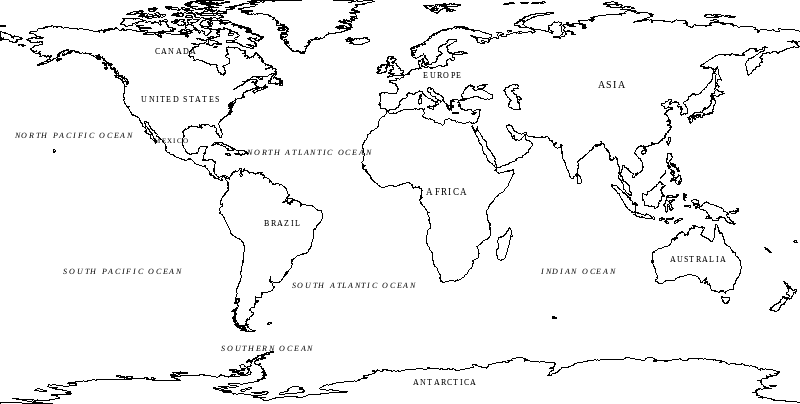
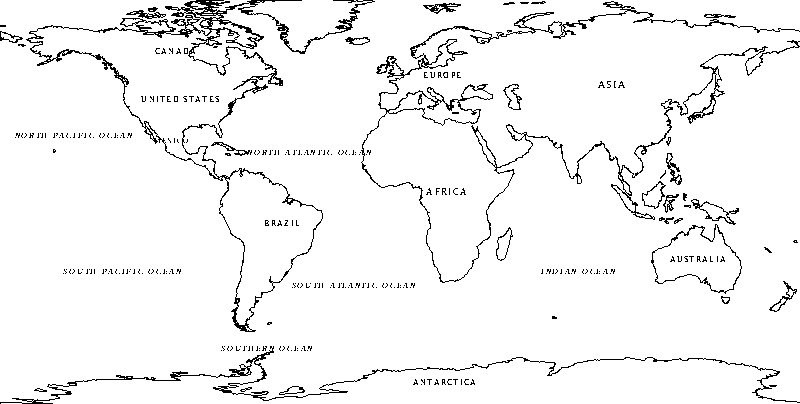
sharkmap: render all type with hard edges, and fix the panel preview
Two separate problems were making text look weak in preview, one real and one an
artefact of the preview itself.

The real one: Pillow anti-aliases TrueType text, leaving grey pixels along every
stroke. Grey is not a colour this panel has, so the Inky driver dithered each of
those into a scattered red, green or blue dot and small type came out speckled.
All type now goes through a mask that is thresholded before it is stamped, in the
plugin via the new CrispText helper and in the basemap generator for its place
labels, so every text pixel is pure black or pure white. The threshold sits at
100 rather than 128 because at 8px a serif stem only partly covers its pixels and
a strict midpoint thins those strokes until they break.

world_map.png is now exactly 2 distinct colours where it previously reported
"many", and a full render is 2 colours where it was 256. Nothing in the output
requires dithering at all, so the panel shows what is sent, pixel for pixel.

The preview artefact: the driver's saturation blend decides which ink each source
colour maps to, but it is not the appearance of that ink. preview_spectra6.py was
painting results with the blended values, which renders white as (208,209,210)
grey and made everything look far weaker than it will be. It now quantises against
the blended palette, as the driver does, and displays the result with the panel's
own colours. --appearance blended keeps the old behaviour for comparison.
[…]

diff --git a/src/plugins/sharkmap/sharkmap.py b/src/plugins/sharkmap/sharkmap.py
@@ -118,6 +118,40 @@ FIN_ALPHA_THRESHOLD = 128
 PLACE_MAX_CHARS = 42      # place_guess is free text and can run long
 
 
+class CrispText:
+    """Collects text into a 1-bit mask so it can be pasted with hard edges.
+
+    Pillow anti-aliases TrueType text, which leaves grey pixels along every
+    stroke. Grey is not a colour this panel has, so the Inky driver dithers each
+    of those pixels into a scattered red, green or blue dot, and small type ends
+    up looking speckled and weak rather than black.
+
+    Drawing type into a mask and thresholding it means every text pixel is either
+    pure black or pure white, so the driver maps it straight across and the
+    letters stay hard. The cost is slightly chunkier small text, which is a good
+    trade at 8px on a 0.2mm pixel.
+    """
+
+    # Chosen a little below the midpoint: at 8px a serif stem covers only part of
+    # its pixels, and a strict 128 thins those strokes to the point of breaking.
+    THRESHOLD = 100
+
+    def __init__(self, size):
+        self.layer = Image.new("L", size, 0)
+        self.draw = ImageDraw.Draw(self.layer)
+
+    def text(self, xy, string, font, anchor="lm"):
+        self.draw.text(xy, string, font=font, fill=255, anchor=anchor)
+
+    def length(self, string, font):
+        return self.draw.textlength(string, font=font)
+
+    def flush(self, canvas, colour):
+        """Threshold the collected type and paste it onto the canvas."""
+        mask = self.layer.point(lambda value: 255 if value >= self.THRESHOLD else 0)
+        canvas.paste(Image.new("RGB", canvas.size, colour), (0, 0), mask)
+
+
 class SharkMap(BasePlugin):
     """Paints recent shark sightings onto a nautical-atlas world map."""
 
@@ -482,27 +516,27 @@ class SharkMap(BasePlugin):
             return ImageFont.load_default()
 
     @staticmethod
-    def _letterspace(draw, xy, text, font, fill, spacing=1.5, centre=True):
+    def _letterspace(ink, xy, text, font, spacing=1.5, centre=True):
         """Draw text with extra tracking, the way atlas labels are set.
 
         Pillow has no letter-spacing, so characters are placed individually.
         Returns the total advance.
         """
-        widths = [draw.textlength(ch, font=font) for ch in text]
+        widths = [ink.length(ch, font) for ch in text]
         total = sum(widths) + spacing * (len(text) - 1)
         x = xy[0] - total / 2 if centre else xy[0]
         for char, width in zip(text, widths):
-            draw.text((x, xy[1]), char, font=font, fill=fill, anchor="lm")
+            ink.text((x, xy[1]), char, font)
             x += width + spacing
         return total
 
     @staticmethod
-    def _fit_text(draw, text, font, max_width):
+    def _fit_text(ink, text, font, max_width):
         """Trim text with an ellipsis until it fits `max_width` pixels."""
-        if draw.textlength(text, font=font) <= max_width:
+        if ink.length(text, font) <= max_width:
             return text
         trimmed = text
-        while trimmed and draw.textlength(trimmed + "…", font=font) > max_width:
+        while trimmed and ink.length(trimmed + "…", font) > max_width:
             trimmed = trimmed[:-1]
         return trimmed.rstrip() + "…"
 
@@ -525,7 +559,10 @@ class SharkMap(BasePlugin):
         canvas.paste(self._basemap(width, map_height), (0, header_height))
 
         draw = ImageDraw.Draw(canvas)
-        self._draw_header(draw, width, header_height, scale)
+        # All type goes into this mask and is thresholded on the way out, so no
+        # anti-aliased grey ever reaches the panel. See CrispText.
+        ink = CrispText((width, height))
+        self._draw_header(draw, ink, width, header_height, scale)
 
         # The glyph is prepared once: every fin is identical, and its drawn width
         # is what decides how far apart fins have to be to stay distinct.
@@ -538,9 +575,10 @@ class SharkMap(BasePlugin):
         self._draw_fins(canvas, glyph, cells, header_height, map_height)
 
         if show_strip:
-            self._draw_strip(draw, latest, total_reported, width, height,
+            self._draw_strip(draw, ink, latest, total_reported, width, height,
                              strip_height, lookback_days, stale_since, scale)
 
+        ink.flush(canvas, BLACK)
         return canvas
 
     def _basemap(self, width, map_height):
@@ -564,7 +602,7 @@ class SharkMap(BasePlugin):
             basemap = basemap.resize((width, map_height), Image.NEAREST)
         return basemap
 
-    def _draw_header(self, draw, width, header_height, scale):
+    def _draw_header(self, draw, ink, width, header_height, scale):
         """Title block: name, subtitle, compass rose and the source credit."""
         draw.rectangle([0, 0, width, header_height], fill=WHITE)
 
@@ -573,10 +611,10 @@ class SharkMap(BasePlugin):
         title_font = self._font(BOLD, 16 * scale)
         sub_font = self._font(REGULAR, 8 * scale)
 
-        self._letterspace(draw, (width / 2, header_height * 0.38),
-                          "SHARK SIGHTINGS", title_font, BLACK, spacing=2.6 * scale)
-        self._letterspace(draw, (width / 2, header_height * 0.79),
-                          "LIVE MARITIME OBSERVATIONS", sub_font, BLACK,
+        self._letterspace(ink, (width / 2, header_height * 0.38),
+                          "SHARK SIGHTINGS", title_font, spacing=2.6 * scale)
+        self._letterspace(ink, (width / 2, header_height * 0.79),
+                          "LIVE MARITIME OBSERVATIONS", sub_font,
                           spacing=2.2 * scale)
 
         draw.line([(0, header_height - 1), (width, header_height - 1)],
@@ -585,19 +623,19 @@ class SharkMap(BasePlugin):
         # The rose plus its "N" has to fit inside a 34px band, so it is small and
         # sits low: the letter goes above the northern spike, and at a larger
         # radius it was being clipped by the top edge.
-        self._draw_compass(draw, width * 0.055, header_height * 0.62,
+        self._draw_compass(draw, ink, width * 0.055, header_height * 0.62,
                            header_height * 0.22, scale)
 
         # The source credit iNaturalist's terms ask for, given the prominence a
         # decorative brand block would otherwise take.
         credit_x = width - 150 * scale
-        self._letterspace(draw, (credit_x, header_height * 0.36),
+        self._letterspace(ink, (credit_x, header_height * 0.36),
                           "DATA: iNATURALIST", self._font(BOLD, 8 * scale),
-                          BLACK, spacing=1.0 * scale, centre=False)
-        draw.text((credit_x, header_height * 0.66), "research-grade observations",
-                  font=self._font(ITALIC, 8.5 * scale), fill=BLACK, anchor="lm")
+                          spacing=1.0 * scale, centre=False)
+        ink.text((credit_x, header_height * 0.66), "research-grade observations",
+                 self._font(ITALIC, 8.5 * scale))
 
-    def _draw_compass(self, draw, cx, cy, radius, scale):
+    def _draw_compass(self, draw, ink, cx, cy, radius, scale):
         """A flat compass rose: four cardinal spikes plus four minor ones."""
         radius = max(6, radius)
         for dx, dy in ((0, -1), (1, 0), (0, 1), (-1, 0)):
@@ -611,8 +649,8 @@ class SharkMap(BasePlugin):
             draw.polygon([tip, (cx, cy - radius * 0.13), (cx, cy + radius * 0.13)],
                          fill=BLACK)
         # Sits clear above the northern spike rather than tucked against it.
-        draw.text((cx, cy - radius - 6.5 * scale), "N",
-                  font=self._font(BOLD, 8 * scale), fill=BLACK, anchor="mm")
+        ink.text((cx, cy - radius - 6.5 * scale), "N",
+                 self._font(BOLD, 8 * scale), anchor="mm")
 
     @staticmethod
     def _bin_sightings(sightings, width, map_height, max_spots, separation,
@@ -731,7 +769,7 @@ class SharkMap(BasePlugin):
     # ------------------------------------------------------------------
     # Caption strip
     # ------------------------------------------------------------------
-    def _draw_strip(self, draw, sighting, total_reported, width, height,
+    def _draw_strip(self, draw, ink, sighting, total_reported, width, height,
                     strip_height, lookback_days, stale_since, scale):
         """Species on the left, circumstances on the right, as on a chart."""
         top = height - strip_height
@@ -747,17 +785,16 @@ class SharkMap(BasePlugin):
         available = divider - margin - 12 * scale
 
         common = (self._species_name(sighting) if sighting else "No recent sightings")
-        self._letterspace(draw, (margin, top + strip_height * 0.32),
-                          self._fit_text(draw, common.upper(), name_font, available),
-                          name_font, BLACK, spacing=1.1 * scale, centre=False)
+        self._letterspace(ink, (margin, top + strip_height * 0.32),
+                          self._fit_text(ink, common.upper(), name_font, available),
+                          name_font, spacing=1.1 * scale, centre=False)
 
         # Suppress the italic line when it would just repeat the headline,
         # which happens whenever iNaturalist has no common name for the taxon.
         scientific = (sighting or {}).get("scientific")
         if scientific and scientific.casefold() != common.casefold():
-            draw.text((margin, top + strip_height * 0.72),
-                      self._fit_text(draw, scientific, sci_font, available),
-                      font=sci_font, fill=BLACK, anchor="lm")
+            ink.text((margin, top + strip_height * 0.72),
+                     self._fit_text(ink, scientific, sci_font, available), sci_font)
 
         draw.line([(divider, top + 6 * scale), (divider, height - 6 * scale)],
                   fill=BLACK, width=1)
@@ -771,19 +808,19 @@ class SharkMap(BasePlugin):
         detail_font = self._font(REGULAR, 8 * scale)
         note_font = self._font(ITALIC, 8 * scale)
 
-        draw.text((text_x, top + strip_height * 0.26),
-                  self._fit_text(draw, self._where_when(sighting), line_font, available),
-                  font=line_font, fill=BLACK, anchor="lm")
+        ink.text((text_x, top + strip_height * 0.26),
+                 self._fit_text(ink, self._where_when(sighting), line_font, available),
+                 line_font)
 
-        draw.text((text_x, top + strip_height * 0.56),
-                  self._fit_text(draw, self._provenance(sighting), detail_font, available),
-                  font=detail_font, fill=BLACK, anchor="lm")
+        ink.text((text_x, top + strip_height * 0.56),
+                 self._fit_text(ink, self._provenance(sighting), detail_font, available),
+                 detail_font)
 
-        draw.text((text_x, top + strip_height * 0.82),
-                  self._fit_text(draw, self._note_text(total_reported, lookback_days,
-                                                       stale_since),
-                                 note_font, available),
-                  font=note_font, fill=BLACK, anchor="lm")
+        ink.text((text_x, top + strip_height * 0.82),
+                 self._fit_text(ink, self._note_text(total_reported, lookback_days,
+                                                     stale_since),
+                                note_font, available),
+                 note_font)
 
     @staticmethod
     def _most_recent(sightings):

diff --git a/scripts/preview_spectra6.py b/scripts/preview_spectra6.py
@@ -77,17 +77,43 @@ def palette_image(colours):
     return image
 
 
-def render_to_panel(image, saturation):
-    """Quantise and dither exactly as the driver would."""
+def render_to_panel(image, saturation, appearance="pure"):
+    """Quantise and dither exactly as the driver would.
+
+    Two different palettes are in play, and confusing them makes the preview
+    misleading:
+
+      - The BLENDED palette is what the driver quantises *against*. It decides
+        which source colour becomes which of the six inks. This is the one that
+        depends on `saturation`.
+      - The pigment the panel then lays down is its own. It is not the blended
+        value. Rendering the result using the blended numbers paints "white" as
+        a mid grey and makes everything look far weaker than it will be.
+
+    So: choose indices with the blended palette, then show them with the pure
+    palette. `appearance="blended"` keeps the old behaviour for comparison.
+    """
     colours = blended_palette(saturation)
     quantised = image.convert("RGB").quantize(
         colors=len(colours), palette=palette_image(colours),
         dither=Image.Dither.FLOYDSTEINBERG,
     )
+
+    if appearance == "pure":
+        # Repaint the same indices with the panel's actual colours. Real e-ink
+        # white is a shade off paper and its black is closer to charcoal, so the
+        # truth sits between this and the blended render -- but this is much the
+        # closer of the two.
+        flat = []
+        for colour in DESATURATED_PALETTE:
+            flat.extend(colour)
+        flat.extend([0, 0, 0] * (256 - len(DESATURATED_PALETTE)))
+        quantised.putpalette(flat)
+
     return quantised.convert("RGB"), colours
 
 
-def report(image, panel, colours):
+def report(image, panel, colours, appearance="pure"):
     """Say how much of the source had to be dithered, and what it became."""
     total = image.width * image.height
     source_colours = image.convert("RGB").getcolors(maxcolors=10 ** 7)
@@ -99,8 +125,10 @@ def report(image, panel, colours):
           f"(the rest is what gets dithered)")
 
     counts = {colour: count for count, colour in panel.getcolors(maxcolors=64)}
+    shown = ([tuple(c) for c in DESATURATED_PALETTE] if appearance == "pure"
+             else colours)
     print("  panel output mix:")
-    for name, colour in zip(COLOUR_NAMES, colours):
+    for name, colour in zip(COLOUR_NAMES, shown):
         share = counts.get(colour, 0) / total * 100
         if share:
             print(f"    {name:7s} {str(colour):>17s}  {share:5.1f}%")
@@ -115,6 +143,10 @@ def main():
                              "matching InkyPi)")
     parser.add_argument("--sweep", action="store_true",
                         help="write a comparison across several saturation values")
+    parser.add_argument("--appearance", choices=("pure", "blended"), default="pure",
+                        help="'pure' shows the panel's own inks (default and more "
+                             "realistic); 'blended' paints the driver's "
+                             "quantisation targets, which look washed out")
     parser.add_argument("--out", help="output path (default: alongside the input)")
     args = parser.parse_args()
 
@@ -129,8 +161,8 @@ def main():
         panels = []
         for level in levels:
             print(f"\nsaturation {level}")
-            panel, colours = render_to_panel(source, level)
-            report(source, panel, colours)
+            panel, colours = render_to_panel(source, level, args.appearance)
+            report(source, panel, colours, args.appearance)
             panels.append((level, panel))
 
         gap = 8
@@ -145,9 +177,9 @@ def main():
         print("order top to bottom: " + ", ".join(f"saturation {lv}" for lv, _ in panels))
         return 0
 
-    panel, colours = render_to_panel(source, args.saturation)
+    panel, colours = render_to_panel(source, args.saturation, args.appearance)
     print(f"\nsaturation {args.saturation}")
-    report(source, panel, colours)
+    report(source, panel, colours, args.appearance)
 
     out = args.out or args.image.replace(".png", "_panel.png")
     panel.save(out)

diff --git a/src/plugins/sharkmap/tools/generate_assets.py b/src/plugins/sharkmap/tools/generate_assets.py
@@ -88,16 +88,29 @@ def font(name, size):
     return _font_cache[key]
 
 
-def letterspace(draw, xy, text, fnt, fill, spacing=1.5, centre=True):
+# Type is collected into a mask and thresholded rather than drawn straight onto
+# the image. Pillow anti-aliases TrueType text, leaving grey pixels along every
+# stroke, and grey is not a colour this panel has -- the Inky driver dithers each
+# one into a scattered red, green or blue dot, so small labels come out speckled
+# and weak. Thresholding makes every text pixel pure black or pure white, which
+# the driver maps straight across.
+#
+# Slightly below the midpoint: at 8px a serif stem only partly covers its pixels,
+# and a strict 128 thins those strokes until they break.
+TEXT_THRESHOLD = 100
+
+
+def letterspace(draw, xy, text, fnt, spacing=1.5, centre=True):
     """Draw text with extra tracking, the way atlas labels are set.
 
     Pillow has no letter-spacing, so characters are placed individually.
+    `draw` must target a mask; see TEXT_THRESHOLD.
     """
     widths = [draw.textlength(ch, font=fnt) for ch in text]
     total = sum(widths) + spacing * (len(text) - 1)
     x = xy[0] - total / 2 if centre else xy[0]
     for char, width in zip(text, widths):
-        draw.text((x, xy[1]), char, font=fnt, fill=fill, anchor="lm")
+        draw.text((x, xy[1]), char, font=fnt, fill=255, anchor="lm")
         x += width + spacing
     return total
 
@@ -230,13 +243,21 @@ def generate_world_map(out_path=None, quiet=False):
             if len(pixels) >= 2:
                 draw.line(pixels + [pixels[0]], fill=COAST_COLOR, width=1)
 
+    # Labels are collected into a mask, thresholded, then stamped in solid black,
+    # so no anti-aliased grey survives into the committed image.
+    label_mask = Image.new("L", (width, height), 0)
+    label_draw = ImageDraw.Draw(label_mask)
+
     for text, lon, lat, size in LAND_LABELS:
         x, y = projection.project(lon, lat, width, height)
-        letterspace(draw, (x, y), text, font(REGULAR, size), BLACK, spacing=1.3)
+        letterspace(label_draw, (x, y), text, font(REGULAR, size), spacing=1.3)
 
     for text, lon, lat, size in OCEAN_LABELS:
         x, y = projection.project(lon, lat, width, height)
-        letterspace(draw, (x, y), text, font(ITALIC, size), BLACK, spacing=1.7)
+        letterspace(label_draw, (x, y), text, font(ITALIC, size), spacing=1.7)
+
+    hard = label_mask.point(lambda value: 255 if value >= TEXT_THRESHOLD else 0)
+    image.paste(Image.new("RGB", (width, height), BLACK), (0, 0), hard)
 
     if out_path is None:
         out_path = os.path.join(PLUGIN_DIR, "world_map.png")
